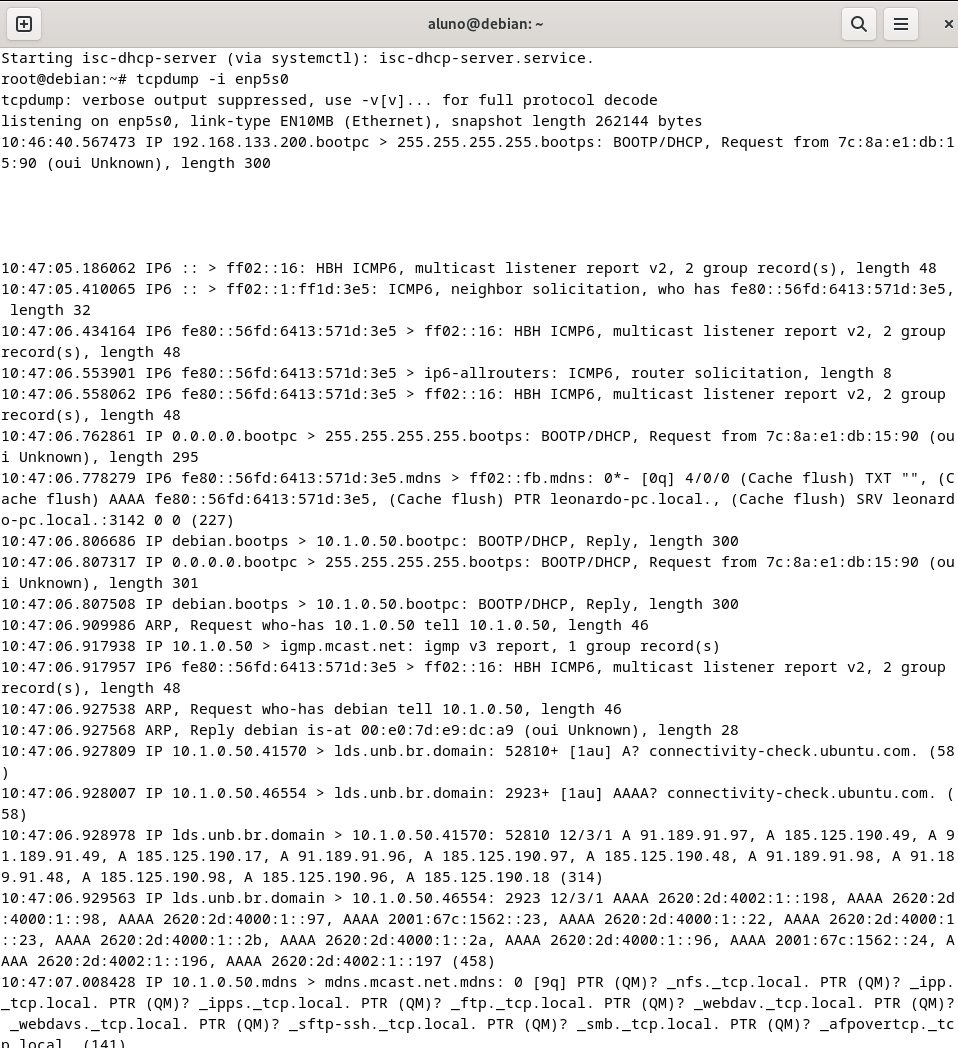
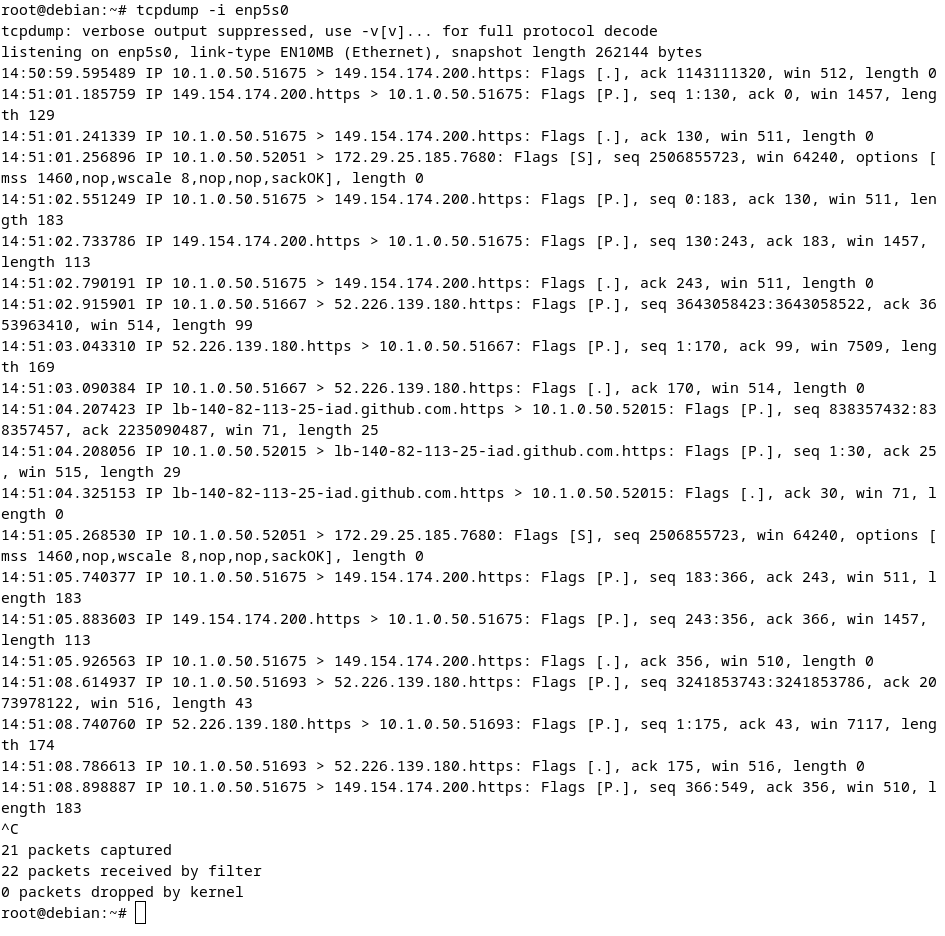
atualizacao readme.md

Changed region(s): [[0.0, 0.0, 1.0, 1.0], [0.5831, 0.1859, 0.6138, 0.2169]]

diff --git a/02-Trabalho/readme.md b/02-Trabalho/readme.md
@@ -697,6 +697,8 @@ Obtivemos a seguinte resposta (figura 22) mostrando a conexão bem sucedida.
 
 #### 6.1.3. Teste de conectividade entre equipamentos da rede privada e equipamentos na rede externa
 
+??????????
+
 
 ### 6.2. Validar NAT
 
@@ -704,14 +706,14 @@ Para verificar se a tradução de endereço (NAT) foi configurada corretamente, 
 
 #### 6.2.1. Testar Tradução de Endereços
 
-Com os seguintes comandos:
+Primeiramente instalamos a ferramenta e depois usamos o comando para monitorar o tráfego da nossa rede LAN pela interface `enp5s0`:
 
 ```bash
 sudo apt-get install tcpdump
 sudo tcpdump -i enp5s0
 ```
 
-Obtemos (figura 23)
+Na figura 23 é possível observar a captura de pacotes na interface LAN.
 
 <br>
 <center>
@@ -722,6 +724,23 @@ Obtemos (figura 23)
 <font size="2"><p style="text-align: center"><b>Figura 23 - Configuração da rede</b></p></font>
 </div>
 </center>
+<br>
+
+Analisando uma dessas linhas como exemplo: 
+
+```bash
+14:50:59.594589 IP 10.1.0.50.51675 > 149.154.174.200.https: Flags [P.], seq 1143111320, win 512, length 0
+```
+
+Foi possível observar:
+- `14:50:59.594589`: Timestamp do momento em que o pacote foi capturado.
+- `IP`:Indica que o protocolo de camada de rede é IP.
+- `10.1.0.50.51675`: Endereço IP de origem (**10.1.0.50**) e porta de origem (**51675**).
+- `>`: Direção do tráfego, indicando que o pacote está indo do IP de origem para o IP de destino.
+- `149.154.174.200.https: Flags [P.]`: Endereço IP de destino (**149.154.174.200** - que corresponde ao site do Telegram) e serviço de destino (https, porta 443), além de outras informações.
+
+Dessa forma, conclui-se que a tradução de endereço (NAT) foi configurada corretamente.
+
 <br>
 
 ### 6.3. Isolamento de Segmento
